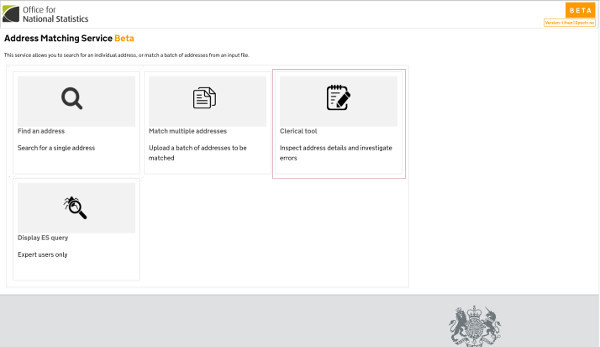
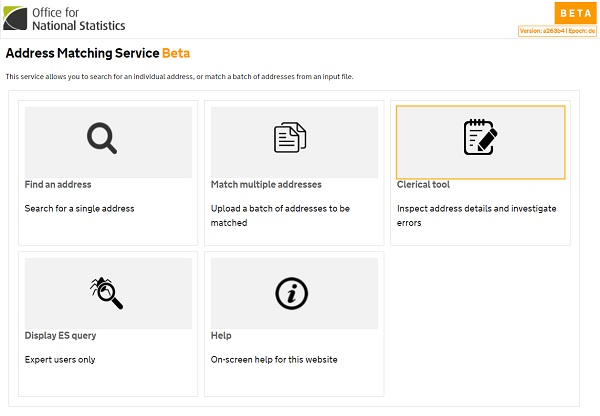
print css and new screenshots

diff --git a/demo-ui/app/uk/gov/ons/addressIndex/demoui/views/help.scala.html b/demo-ui/app/uk/gov/ons/addressIndex/demoui/views/help.scala.html
@@ -13,31 +13,31 @@
             @navigation(Navigation.default)
             </div>
             <div class="help-container" id="help-container">
-                <ul>
-                    <li>
-                        <a href="#introduction">Introduction</a>
-                    </li>
-                    <li>
-                        <a href="#login">Logging on to Address Index</a>
-                    </li>
-                    <li>
-                        <a href="#search_single">Search for a Single Address</a>
-                    </li>
-                    <li>
-                        <a href="#search_multiple">Search for multiple addresses</a>
-                    </li>
-                    <li>
-                        <a href="#clerical">Perform an advanced search using the Clerical Tool</a>
-                    </li>
-                    <li>
-                        <a href="#debug">Debug the ElasticSearch Query</a>
-                    </li>
-                    <li>
-                        <a href="#notes">Additional Notes</a>
-                    </li>
-
-                </ul>
-
+                <div class="no-print">
+                    <ul>
+                        <li>
+                            <a href="#introduction">Introduction</a>
+                        </li>
+                        <li>
+                            <a href="#login">Logging on to Address Index</a>
+                        </li>
+                        <li>
+                            <a href="#search_single">Search for a Single Address</a>
+                        </li>
+                        <li>
+                            <a href="#search_multiple">Search for multiple addresses</a>
+                        </li>
+                        <li>
+                            <a href="#clerical">Perform an advanced search using the Clerical Tool</a>
+                        </li>
+                        <li>
+                            <a href="#debug">Debug the ElasticSearch Query</a>
+                        </li>
+                        <li>
+                            <a href="#notes">Additional Notes</a>
+                        </li>
+                    </ul>
+                </div>
                 <div>
                     <a name="introduction"></a>
                     <h1>Introduction</h1>

diff --git a/demo-ui/app/uk/gov/ons/addressIndex/demoui/views/helpcy.scala.html b/demo-ui/app/uk/gov/ons/addressIndex/demoui/views/helpcy.scala.html
@@ -9,34 +9,35 @@ version: DemoUIAddressIndexVersionModule
 
 <div class="container">
     <div class="panel panel-single">
-        <div class="panel-heading sub-nav-heading">
+        <div class="panel-heading sub-nav-heading no-print">
             @navigation(Navigation.default)
         </div>
         <div class="help-container" id="help-container">
-            <ul>
-                <li>
-                    <a href="#introduction">Introduction - Yaki Da!</a>
-                </li>
-                <li>
-                    <a href="#login">Logging on to Address Index</a>
-                </li>
-                <li>
-                    <a href="#search_single">Search for a Single Address</a>
-                </li>
-                <li>
-                    <a href="#search_multiple">Search for multiple addresses</a>
-                </li>
-                <li>
-                    <a href="#clerical">Perform an advanced search using the Clerical Tool</a>
-                </li>
-                <li>
-                    <a href="#debug">Debug the ElasticSearch Query</a>
-                </li>
-                <li>
-                    <a href="#notes">Additional Notes</a>
-                </li>
-
-            </ul>
+            <div class="no-print">
+                <ul>
+                    <li>
+                        <a href="#introduction">Introduction</a>
+                    </li>
+                    <li>
+                        <a href="#login">Logging on to Address Index</a>
+                    </li>
+                    <li>
+                        <a href="#search_single">Search for a Single Address</a>
+                    </li>
+                    <li>
+                        <a href="#search_multiple">Search for multiple addresses</a>
+                    </li>
+                    <li>
+                        <a href="#clerical">Perform an advanced search using the Clerical Tool</a>
+                    </li>
+                    <li>
+                        <a href="#debug">Debug the ElasticSearch Query</a>
+                    </li>
+                    <li>
+                        <a href="#notes">Additional Notes</a>
+                    </li>
+                </ul>
+            </div>
 
             <div>
                 <a name="introduction"></a>

diff --git a/demo-ui/app/uk/gov/ons/addressIndex/demoui/views/navigation.scala.html b/demo-ui/app/uk/gov/ons/addressIndex/demoui/views/navigation.scala.html
@@ -1,15 +1,15 @@
 @import uk.gov.ons.addressIndex.demoui.model.ui.Navigation
 
 @(nav: Navigation)(implicit messages: Messages)
-<div>
-    <nav class="nav-container">
+<div class="no-print">
+    <nav class="nav-container no-print">
         <ul>
             @for(link <- nav.links) {
                 <li><a href="@{link.href}">@{link.label}</a></li>
             }
         </ul>
     </nav>
-    <nav class="nav-container-mobile">
+    <nav class="nav-container-mobile no-print">
         <select>
             <option value="#">@messages("main.goto")</option>
             @for(link <- nav.links) {
@@ -24,6 +24,6 @@
     </script>
 </div>
 
-<div id="feedback">
+<div id="feedback" class="no-print">
     <a class="mailto" href="mailto:ai.users@@ons.gov.uk?subject=Feedback%20on%20Address%20Index">@messages("feedback.link")</a>
 </div>

diff --git a/demo-ui/app/uk/gov/ons/addressIndex/demoui/views/banner.scala.html b/demo-ui/app/uk/gov/ons/addressIndex/demoui/views/banner.scala.html
@@ -12,7 +12,7 @@ messages: Messages
             <div class="logo">
                 <img alt="ONS" src="/assets/images/ons-logo.png" width="204" height="40">
             </div>
-            <div class="beta-header">
+            <div class="beta-header no-print">
                 <p class="beta-para"><strong class="beta-banner">@messages("main.beta")</strong></p>
                 <p class="beta-para"><strong class="beta-banner-version">Version:
                     <a class="beta-git" href="https://github.com/ONSdigital/address-index-api/commit/@version.apiVersion.drop(2).take(6)">@version.apiVersion.drop(2).take(6)</a>

diff --git a/demo-ui/app/uk/gov/ons/addressIndex/demoui/views/main.scala.html b/demo-ui/app/uk/gov/ons/addressIndex/demoui/views/main.scala.html
@@ -44,7 +44,7 @@
         <meta name="viewport" content="width=device-width, initial-scale=1">
         <meta property="og:image" content='@routes.Assets.versioned("images/opengraph-image.png")'>
 
-        <link rel="stylesheet" media="screen" href='@routes.Assets.versioned("stylesheets/ons.css")'>
+        <link rel="stylesheet" media="screen, print" href='@routes.Assets.versioned("stylesheets/ons.css")'>
         <link rel="shortcut icon" type="image/png" href='@routes.Assets.versioned("images/favicon.ico")'>
     </head>
     <body>

diff --git a/demo-ui/public/stylesheets/ons.css b/demo-ui/public/stylesheets/ons.css
@@ -860,6 +860,13 @@ select {
     }
 }
 
+@media print {
+.no-print, .no-print *
+    {
+        display: none;
+    }
+}
+
 .ls-approved{
     color:white;
     background-color:#00CC00;
@@ -1023,5 +1030,5 @@ a.address-toggle-welsh:hover {
 }
 
 .help-container h1 {
-    margin-top: 70px;
+    margin-top: 46px;
 }
